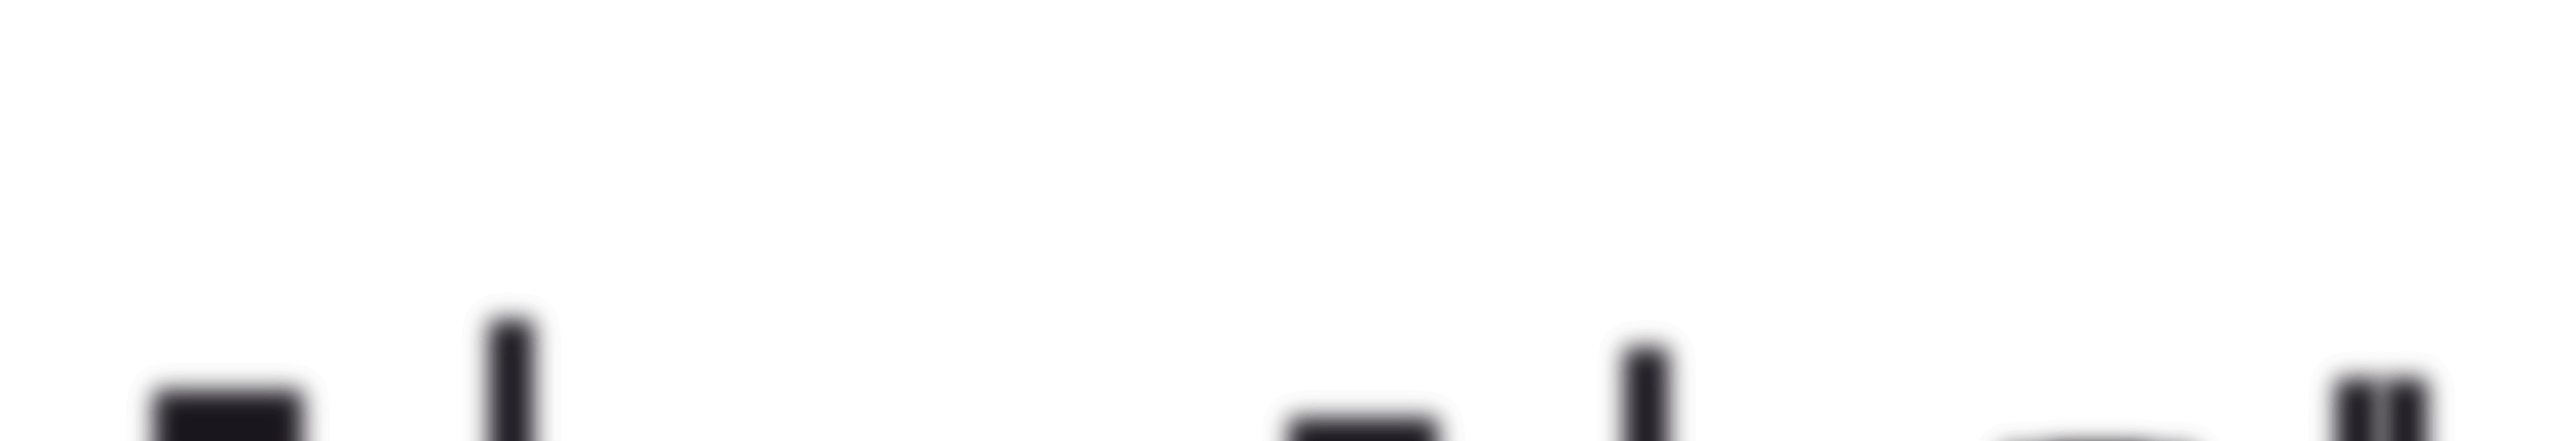
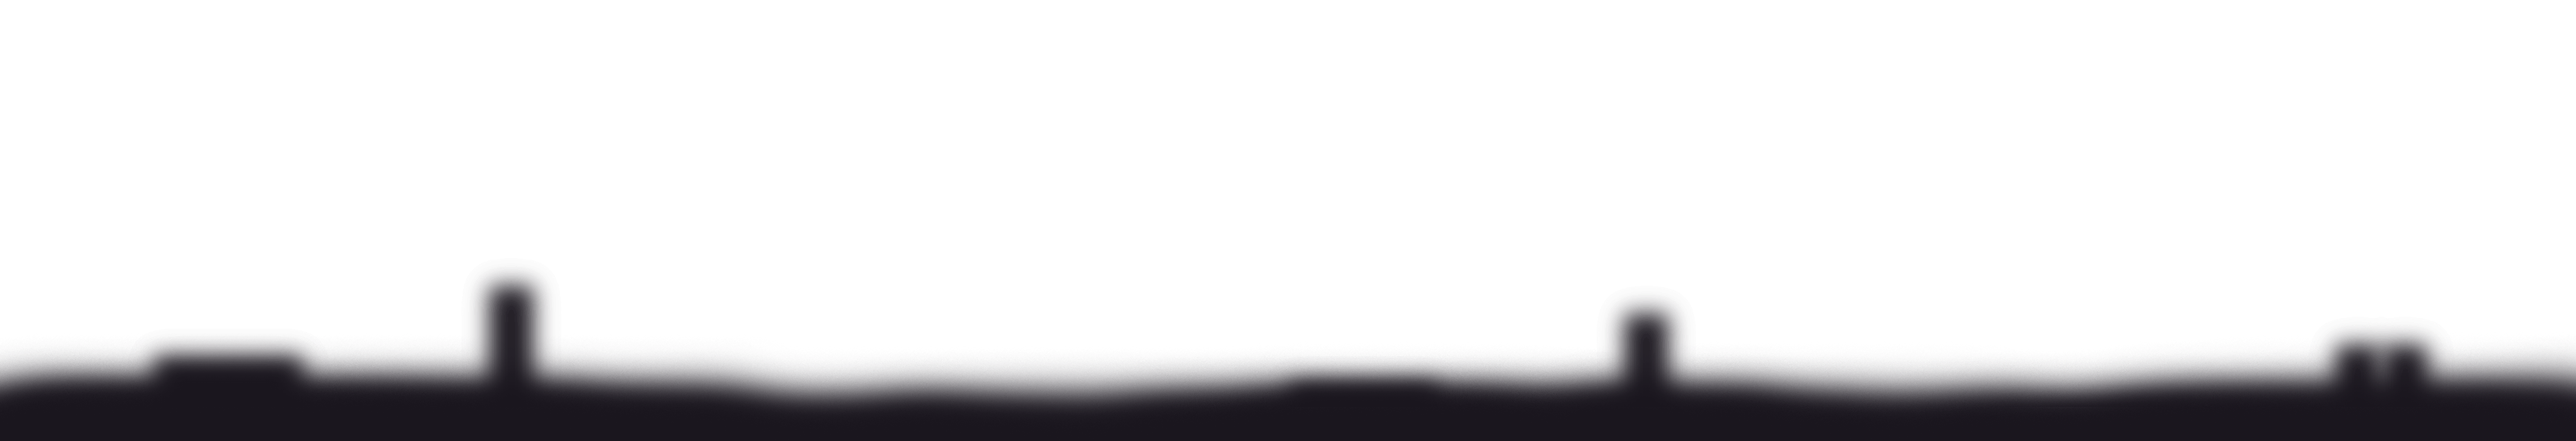
devine gravity

Changed region(s): [[0.0, 0.6747, 1.0, 1.0], [0.1865, 0.6133, 0.2176, 0.7667]]

diff --git a/src/game/scenes/main-scene.ts b/src/game/scenes/main-scene.ts
@@ -4,6 +4,7 @@ import {RepairableBlock} from "../objects/repairableBlock";
 import {BGLayer} from "../objects/bglayer";
 
 import GroupConfig = Phaser.GameObjects.Group;
+import { Street } from "../objects/street";
 
 export enum KEYS {
     BLOCK1 = "block1",
@@ -51,6 +52,9 @@ export class MainScene extends Phaser.Scene {
     playerSprites: number = 43;
     distance: number;
     distanceText: Phaser.GameObjects.Text;
+    streetTiles: Array<number> = [1,2,3,4,5,6,1,2,1,2,3,4,5,6];
+    fallTiles: Array<number> =   [1,1,1,1,1,0,1,1,1,1,1,1,1,0];
+    street: GroupConfig;
 
     constructor() {
         super("PlayGame");
@@ -76,6 +80,11 @@ export class MainScene extends Phaser.Scene {
         this.load.image(KEYS.BGLAYER0, "./src/game/assets/layer-0.png");
         this.load.image(KEYS.BGLAYER1, "./src/game/assets/layer-2.png");
         this.load.image(KEYS.BGLAYER2, "./src/game/assets/layer-1.png");
+
+        for(let x=1; x<=6; x++) {
+            this.load.image("street" + x.toString(), "./src/game/assets/blocks/0" + x.toString() + ".png");
+        }
+
     }
 
     create() {
@@ -123,6 +132,10 @@ export class MainScene extends Phaser.Scene {
             runChildUpdate: true
         });
 
+        this.street = this.add.group({
+            runChildUpdate: true
+        })
+
         this.bglayer1 = new BGLayer({
             scene: this,
             x: 0,
@@ -137,32 +150,52 @@ export class MainScene extends Phaser.Scene {
             key: KEYS.BGLAYER2
         });
 
-        for (let x = 0; x <= 7; x++) {
-            this.blocks.add(
-                new Block({
+        for (let x = 0; x < this.streetTiles.length; x++) {
+            this.street.add(
+                new Street({
                     scene: this,
-                    x: x * Block.SIZE,
-                    y: this.sys.canvas.height - Block.SIZE,
-                    key: Math.random() > .2 ? KEYS.BLOCK1 : KEYS.BLOCK2
+                    x: x * Street.SIZE,
+                    y: 0,
+                    key: "street" + this.streetTiles[x]
                 }));
         }
 
-        for (let x = 0; x < 20; x++) {
-            if (Math.random() > .8) {
-                this.repairBlocks.add(
-                    new RepairableBlock({
+        for (let x = 0; x <= this.fallTiles.length; x++) {
+            if (this.fallTiles[x] === 1) {
+                this.blocks.add(
+                    new Block({
                         scene: this,
-                        x: x * 60,
-                        y: this.sys.canvas.height - 60,
-                        key: KEYS.REPAIRBLOCK
-                    }));
+                        x: x * Block.SIZE,
+                        y: this.sys.canvas.height - 200,
+                        key: KEYS.BLOCK1
+                }));
+            } else {
+                this.blocks.add(
+                    new Block({
+                        scene: this,
+                        x: x * Block.SIZE,
+                        y: this.sys.canvas.height + 500,
+                        key: KEYS.BLOCK1
+                }));
             }
         }
+
+        // for (let x = 0; x < 20; x++) {
+        //     if (Math.random() > .8) {
+        //         this.repairBlocks.add(
+        //             new RepairableBlock({
+        //                 scene: this,
+        //                 x: x * 60,
+        //                 y: this.sys.canvas.height - 200,
+        //                 key: KEYS.REPAIRBLOCK
+        //             }));
+        //     }
+        // }
 
         this.player = new Player({
             scene: this,
             x: this.sys.canvas.width * 0.25,
-            y: 534,
+            y: this.sys.canvas.height - 200 - 160,
             key: KEYS.PLAYER,
             scream: this.scream
         });
@@ -203,7 +236,6 @@ export class MainScene extends Phaser.Scene {
 
         this.moveBackgrounds();
         this.playYawnSound();
-        this.addBlocks();
 
         this.distanceText.setText("DISTANCE: " + this.pad(Math.floor(this.distance / 10), 6) + " M");
 
@@ -213,7 +245,7 @@ export class MainScene extends Phaser.Scene {
             txt.setOrigin(0.5, 0);
             this.input.on("pointerdown", function () {
                 this.music.stop();
-                this.scene.start("GameOver");
+                this.scene.start("Boot");
             }, this);
         }
 
@@ -222,27 +254,15 @@ export class MainScene extends Phaser.Scene {
     }
 
     moveBackgrounds() {
-        this.bglayer0.tilePositionX = this.bglayer0.tilePositionX + 5;
-        this.bglayer1.tilePositionX = this.bglayer1.tilePositionX + 1;
-        this.bglayer2.tilePositionX = this.bglayer2.tilePositionX + 2;
+        this.bglayer0.tilePositionX = this.bglayer0.tilePositionX + 5 + (this.distance / 5000);
+        this.bglayer1.tilePositionX = this.bglayer1.tilePositionX + 1 + (this.distance / 1000);
+        this.bglayer2.tilePositionX = this.bglayer2.tilePositionX + 2 + (this.distance / 2000);
     }
 
     playYawnSound() {
         if (this.bglayer1.tilePositionX > this.yawnTimer && !this.player.falling) {
             this.yawn[Math.floor(Math.random() * 3)].play();
             this.yawnTimer = this.yawnTimer + Math.random() * 500 + 200;
-        }
-    }
-
-    addBlocks() {
-        if (this.blocks.getLength() <= 17) {
-            this.blocks.add(
-                new Block({
-                    scene: this,
-                    x: this.sys.canvas.width,
-                    y: this.sys.canvas.height - Block.SIZE,
-                    key: Math.random() > .2 ? KEYS.BLOCK1 : KEYS.BLOCK2
-                }));
         }
     }
 }

diff --git a/src/game/objects/street.ts b/src/game/objects/street.ts
@@ -1,4 +1,4 @@
-export class Block extends Phaser.GameObjects.Sprite {
+export class Street extends Phaser.GameObjects.Sprite {
     static SIZE = 300;
 
     constructor(params) {
@@ -16,17 +16,16 @@ export class Block extends Phaser.GameObjects.Sprite {
 
         // physics
         this.scene.physics.world.enable(this);
-        this.body.setSize(50, 4);
+        this.body.setSize(1, 1);
         this.body.setAllowGravity(false);
         this.body.setImmovable(true);
         this.body.setVelocityX(-100);
-        this.setScale(3.75, 1);
-        this.setVisible(false);
+        this.setVisible(true);
     }
 
     update() {
-        if (this.x <= (Block.SIZE - 1) * -1) {
-            this.setX(this.scene.sys.canvas.width + Block.SIZE);
+        if (this.x <= (Street.SIZE - 1) * -1) {
+            this.setX(this.scene.sys.canvas.width + Street.SIZE);
         }
 
     }

diff --git a/src/game/objects/player.ts b/src/game/objects/player.ts
@@ -24,7 +24,6 @@ export class Player extends Phaser.GameObjects.Sprite {
 
     update(...args): void {
         super.update(...args);
-        console.log(this.body.velocity.y);
         if (this.body.velocity.y > 0) {
             if (!this.falling) {
                 this.scream.play();

diff --git a/src/game/game.ts b/src/game/game.ts
@@ -9,7 +9,7 @@ const config: GameConfig = {
   type: Phaser.AUTO,
   width: 1360,
   height: 750,
-  scene: [BootScene, GameOverScene,MainScene],
+  scene: [MainScene, BootScene, GameOverScene],
   backgroundColor: 0x444444,
 
   // physics settings
